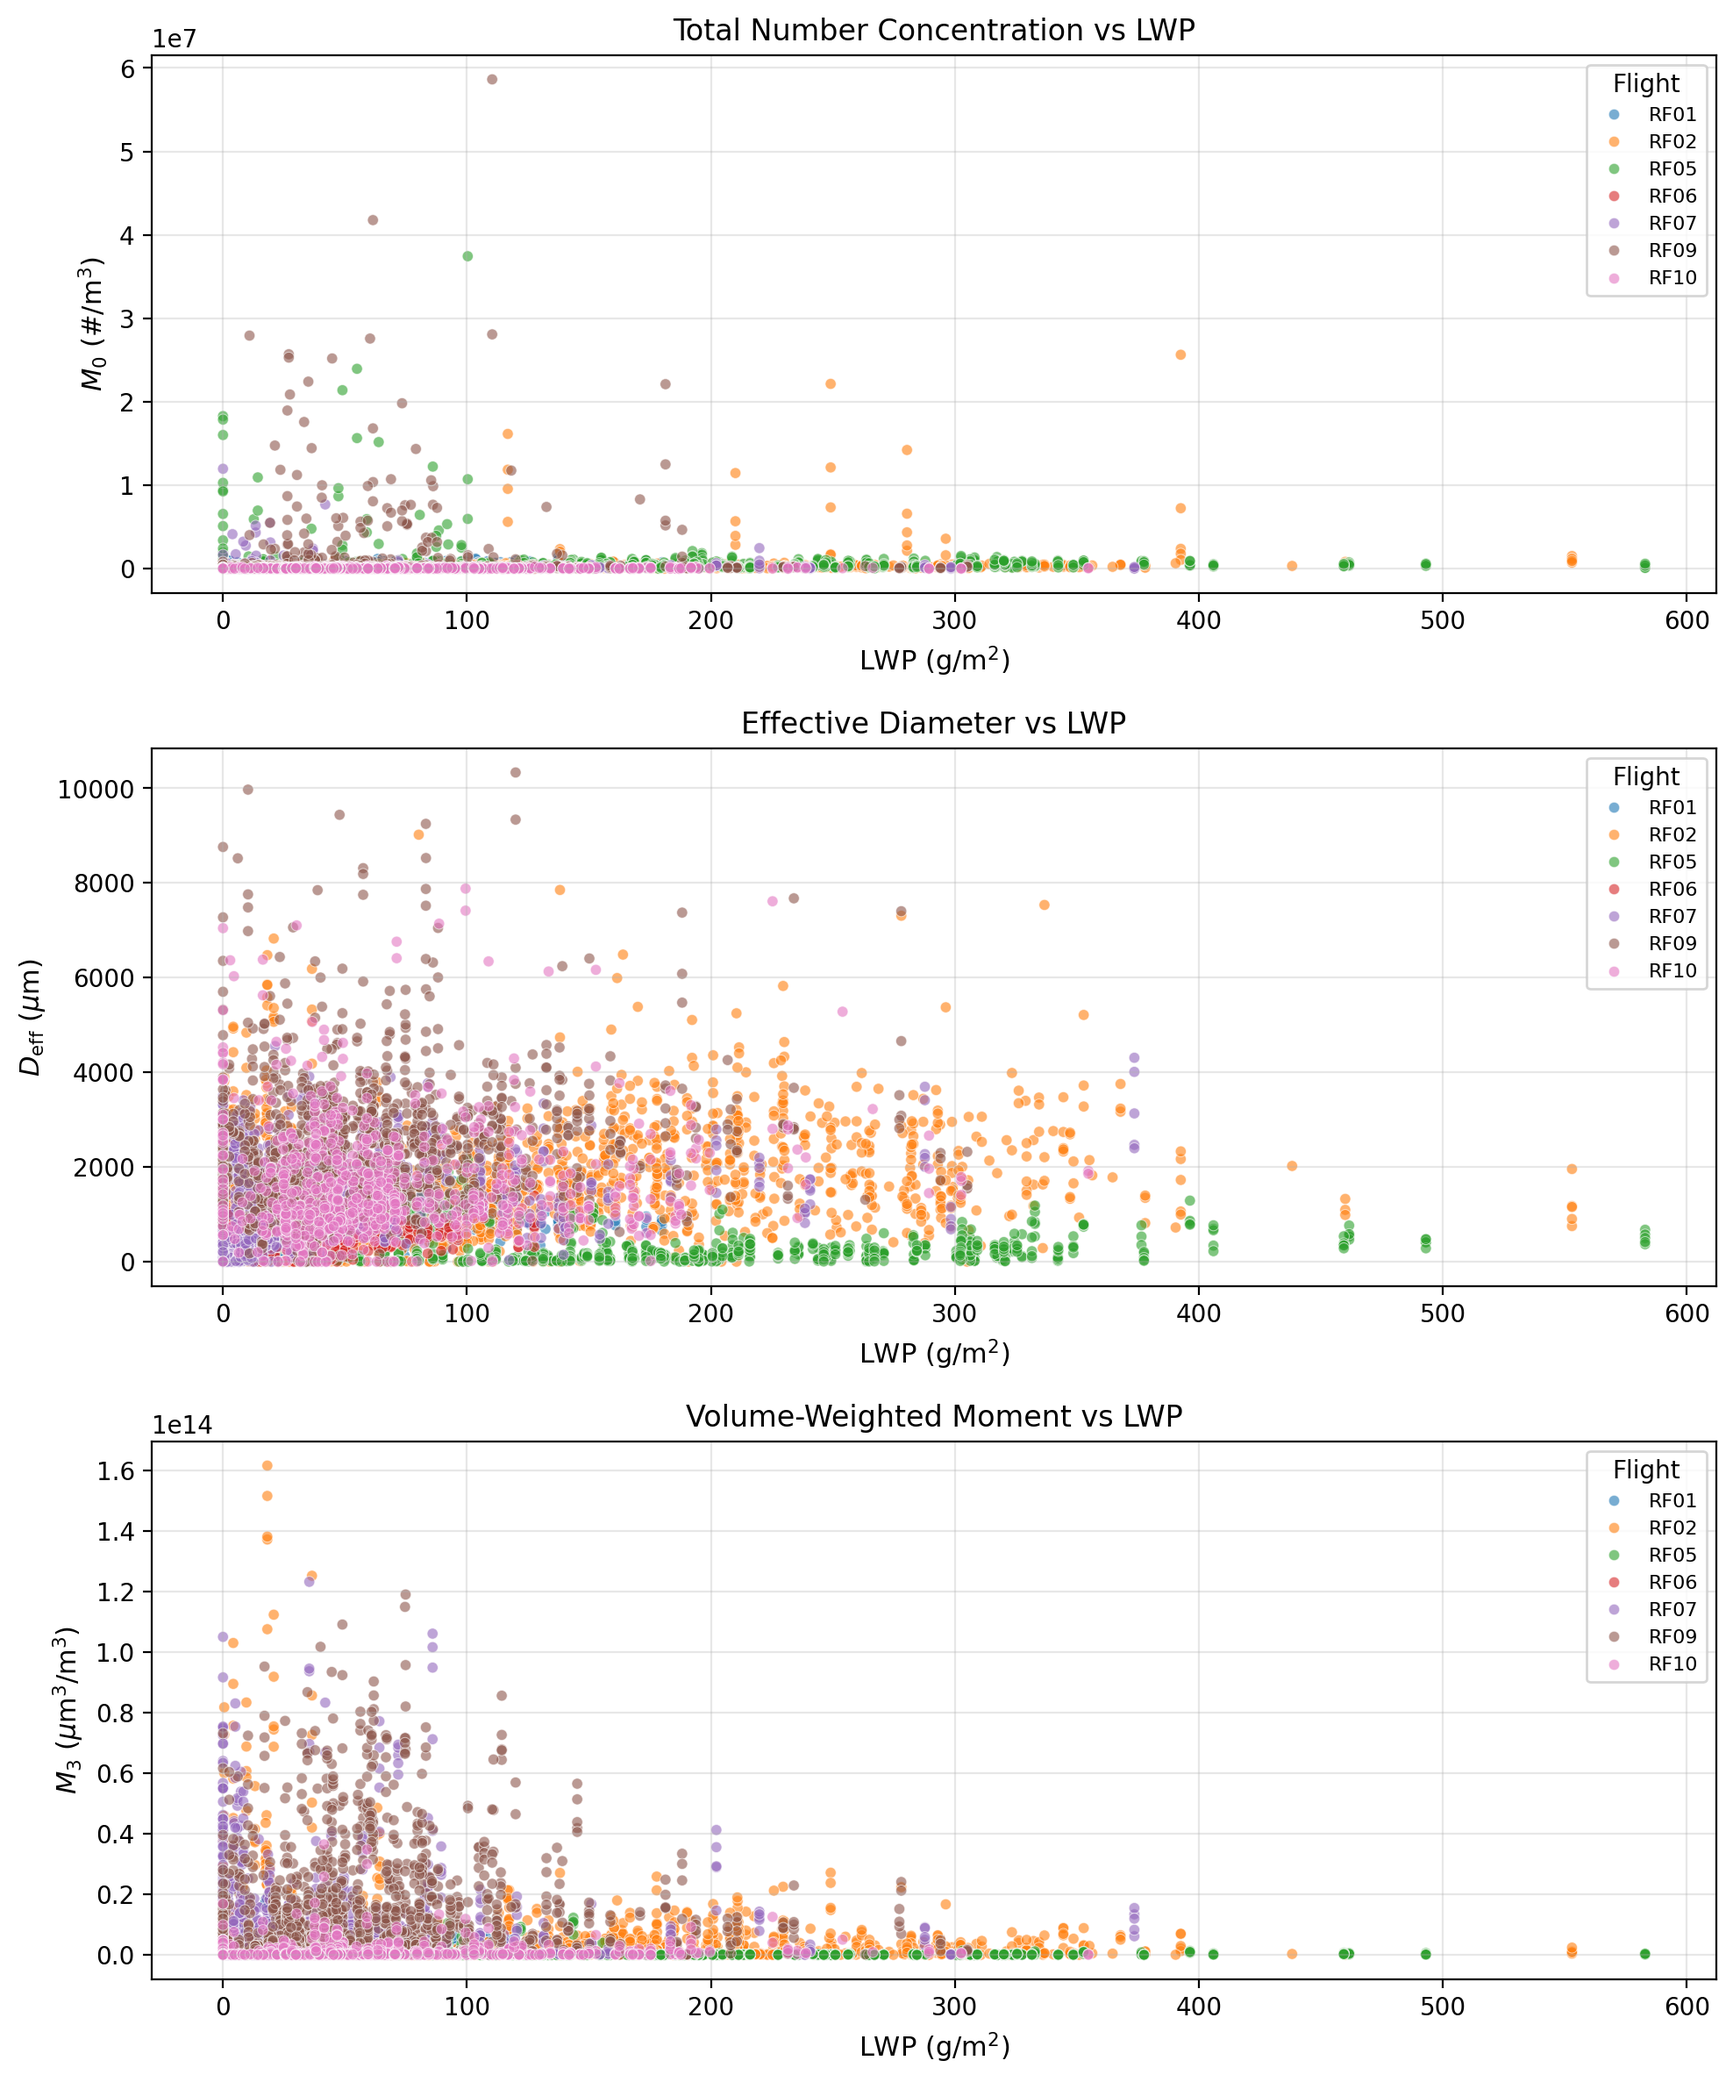
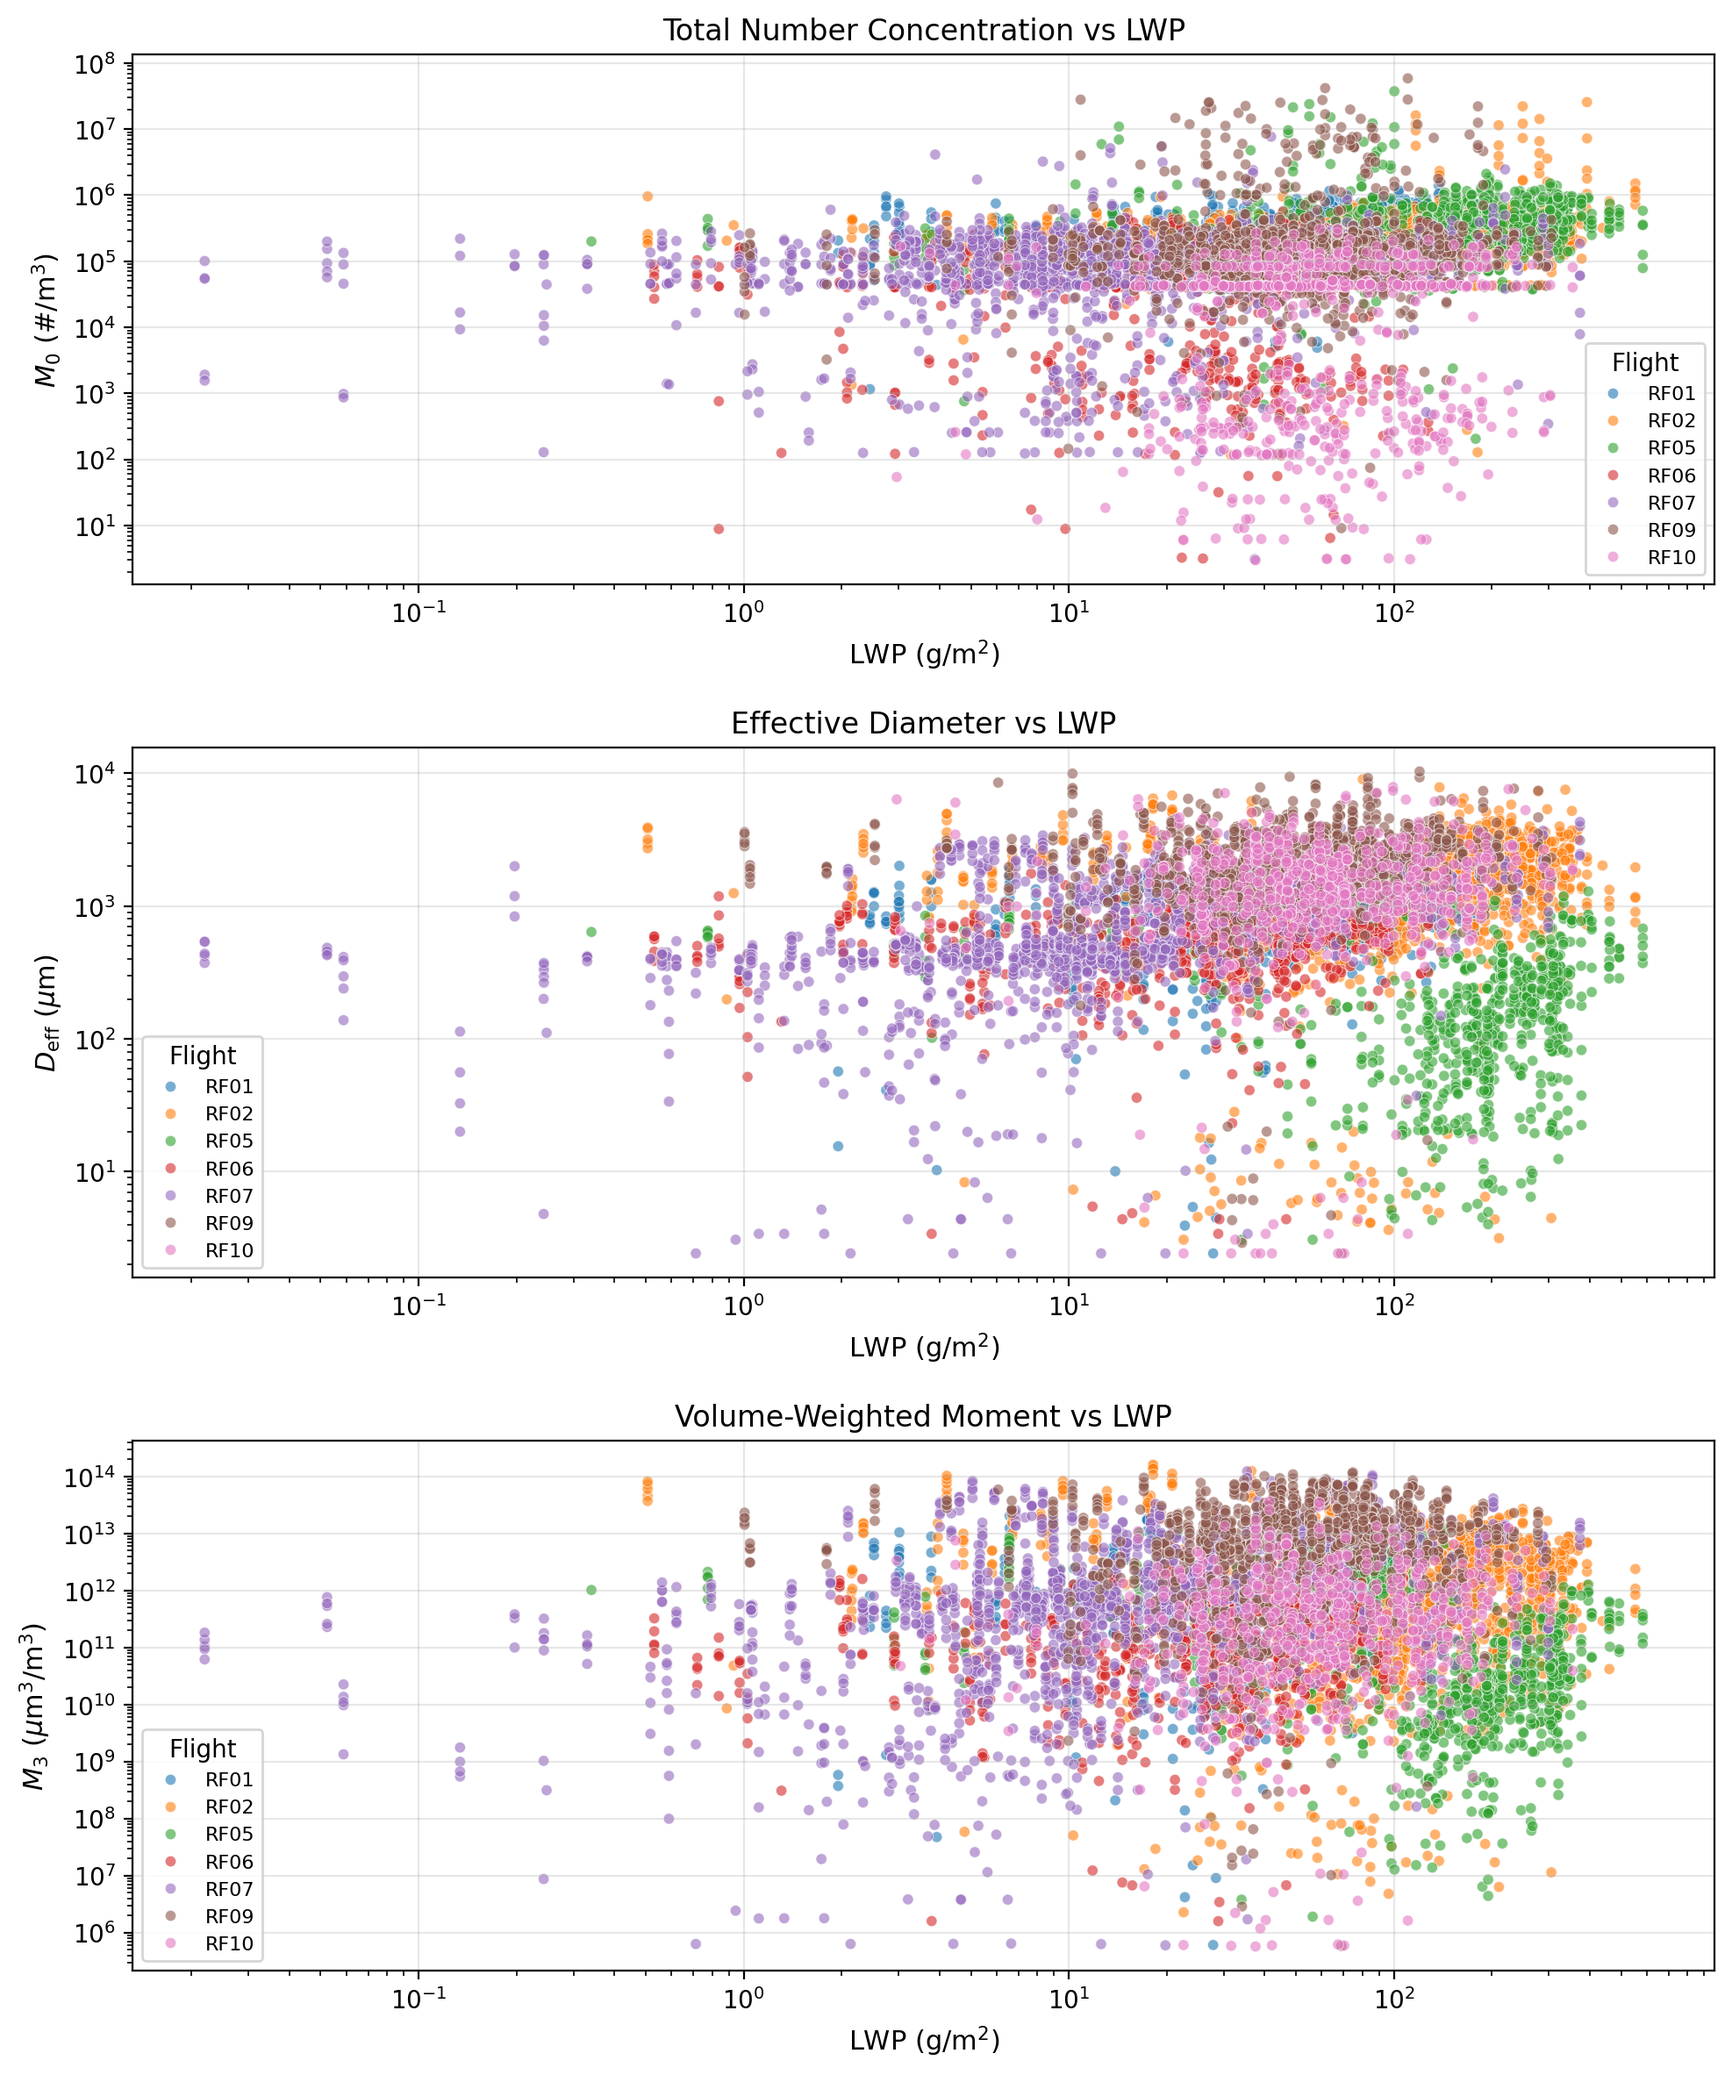
snow flux feedback

diff --git a/src/microphysics/plotting.py b/src/microphysics/plotting.py
@@ -161,9 +161,13 @@ def plot_binned_size_distributions(
             conc_array, bin_centers, bin_widths, method="mean"
         )
 
+        # normalize by dividing dN/dD by total N
+        total_N = np.nansum(sd.dNdD * sd.bin_widths_um)
+        dNdD_norm = sd.dNdD / total_N if total_N > 0 else sd.dNdD
+
         ax.plot(
             sd.bin_centers_um,
-            sd.dNdD,
+            dNdD_norm,
             linewidth=2,
             color=color,
             label=f"{bin_label} g/m$^2$",
@@ -175,7 +179,7 @@ def plot_binned_size_distributions(
         ax.set_yscale("log")
 
     ax.set_xlabel(r"Diameter ($\mu$m)", fontsize=12)
-    ax.set_ylabel(r"$\partial N/\partial D$ (#/m$^4$)", fontsize=12)
+    ax.set_ylabel(r"Normalized $\partial N/\partial D$ ($\mu$m$^{-1}$)", fontsize=12)
     ax.set_title(f"Size Distributions Stratified by {variable}", fontsize=14)
     ax.legend(title=f"{variable} bins", fontsize=9)
     ax.grid(True, alpha=0.3)
@@ -256,16 +260,6 @@ def plot_snow_rate_normalized_timeseries(
     if df_flight.is_empty():
         return output_path
 
-    # compute normalized rates via vectorized Polars expressions
-    df_flight = df_flight.with_columns(
-        pl.when(pl.col("LWP") > 0)
-        .then(pl.col("S") / pl.col("LWP"))
-        .alias("S_over_LWP"),
-        pl.when(pl.col("WVP") > 0)
-        .then(pl.col("S") / pl.col("WVP"))
-        .alias("S_over_WVP"),
-    )
-
     # partition once into per-segment dicts; sort time within each segment
     partitions = df_flight.sort("time").partition_by("segment_id", as_dict=True)
     seg_data = {}
@@ -313,9 +307,7 @@ def plot_snow_rate_normalized_timeseries(
     if ylim is not None:
         axes[0].set_ylim(ylim)
 
-    axes[0].set_ylabel(
-        r"Snow rate / water path (kg m$^{-2}$ s$^{-1}$ / g m$^{-2}$)", fontsize=10
-    )
+    axes[0].set_ylabel(r"Snow rate / water path (hr$^{-1}$)", fontsize=10)
     fig.suptitle(f"{flight}: Snow rate normalized by LWP and WVP", fontsize=13)
     plt.tight_layout()
 
@@ -370,50 +362,30 @@ def plot_integrated_properties(
     fig, axes = plt.subplots(3, 1, figsize=(10, 12))
     var_label = r"WVP (g/m$^2$)" if variable == "WVP" else r"LWP (g/m$^2$)"
 
-    sns.scatterplot(
-        data=df_plot,
-        x=variable,
-        y="M0",
-        hue="flight",
-        alpha=0.6,
-        s=20,
-        ax=axes[0],
-    )
-    axes[0].set_xlabel(var_label, fontsize=11)
-    axes[0].set_ylabel(r"$M_0$ (#/m$^3$)", fontsize=11)
-    axes[0].set_title(f"Total Number Concentration vs {variable}", fontsize=12)
-    axes[0].grid(True, alpha=0.3)
-    axes[0].legend(title="Flight", fontsize=8)
-
-    sns.scatterplot(
-        data=df_plot,
-        x=variable,
-        y="D_eff",
-        hue="flight",
-        alpha=0.6,
-        s=20,
-        ax=axes[1],
-    )
-    axes[1].set_xlabel(var_label, fontsize=11)
-    axes[1].set_ylabel(r"$D_{\mathrm{eff}}$ ($\mu$m)", fontsize=11)
-    axes[1].set_title(f"Effective Diameter vs {variable}", fontsize=12)
-    axes[1].grid(True, alpha=0.3)
-    axes[1].legend(title="Flight", fontsize=8)
-
-    sns.scatterplot(
-        data=df_plot,
-        x=variable,
-        y="M3",
-        hue="flight",
-        alpha=0.6,
-        s=20,
-        ax=axes[2],
-    )
-    axes[2].set_xlabel(var_label, fontsize=11)
-    axes[2].set_ylabel(r"$M_3$ ($\mu$m$^3$/m$^3$)", fontsize=11)
-    axes[2].set_title(f"Volume-Weighted Moment vs {variable}", fontsize=12)
-    axes[2].grid(True, alpha=0.3)
-    axes[2].legend(title="Flight", fontsize=8)
+    for ax_i, (ycol, ylabel, title_prefix) in zip(
+        axes,
+        [
+            ("M0", r"$M_0$ (#/m$^3$)", "Total Number Concentration"),
+            ("D_eff", r"$D_{\mathrm{eff}}$ ($\mu$m)", "Effective Diameter"),
+            ("M3", r"$M_3$ ($\mu$m$^3$/m$^3$)", "Volume-Weighted Moment"),
+        ],
+    ):
+        sns.scatterplot(
+            data=df_plot,
+            x=variable,
+            y=ycol,
+            hue="flight",
+            alpha=0.6,
+            s=20,
+            ax=ax_i,
+        )
+        ax_i.set_xlabel(var_label, fontsize=11)
+        ax_i.set_ylabel(ylabel, fontsize=11)
+        ax_i.set_title(f"{title_prefix} vs {variable}", fontsize=12)
+        ax_i.set_xscale("log")
+        ax_i.set_yscale("log")
+        ax_i.grid(True, alpha=0.3)
+        ax_i.legend(title="Flight", fontsize=8)
 
     plt.tight_layout()
     fig.savefig(output_path, dpi=200, bbox_inches="tight")

diff --git a/src/microphysics/snow_mass_flux.py b/src/microphysics/snow_mass_flux.py
@@ -93,6 +93,20 @@ def build_flux_dataset() -> pl.DataFrame:
 
     df = df.filter(pl.col("MCAO").is_not_null() & ~pl.col("MCAO").is_nan())
 
+    # normalized snow rates (hr^-1)
+    # S is kg/m^2/s, LWP and WVP are g/m^2; convert to kg/m^2/1000
+    # then S/WP = 1/s; multiply by 3600 to get 1/hr
+    # ==> S / WP * 1000 * 3600
+    s_wp_to_per_hr = 3600 * 1000
+    df = df.with_columns(
+        pl.when(pl.col("LWP") > 0)
+        .then(pl.col("S") / pl.col("LWP") * s_wp_to_per_hr)
+        .alias("S_over_LWP"),
+        pl.when(pl.col("WVP") > 0)
+        .then(pl.col("S") / pl.col("WVP") * s_wp_to_per_hr)
+        .alias("S_over_WVP"),
+    )
+
     print(
         f"\nMerged dataset: {df.height} timesteps with valid S and MCAO"
         f"\n\tS range: [{df['S'].min():.3e}, {df['S'].max():.3e}] kg/m^2/s"
@@ -189,6 +203,54 @@ def plot_binned_flux(df: pl.DataFrame) -> None:
     print(f"Saved: {out_path}")
 
 
+def plot_normalized_flux_vs_mcao(df: pl.DataFrame) -> None:
+    """Scatterplot of MCAO vs S/LWP and S/WVP."""
+    df_valid = df.filter(
+        pl.col("S_over_LWP").is_not_null() & pl.col("S_over_WVP").is_not_null()
+    )
+
+    df_pd = df_valid.to_pandas()
+
+    fig, (ax1, ax2) = plt.subplots(2, 1, figsize=(10, 10), sharex=True)
+
+    sns.scatterplot(
+        data=df_pd,
+        x="MCAO",
+        y="S_over_LWP",
+        hue="flight",
+        alpha=0.5,
+        s=20,
+        ax=ax1,
+    )
+    ax1.set_yscale("log")
+    ax1.set_ylabel(r"$S$/LWP (hr$^{-1}$)", fontsize=12)
+    ax1.set_title(r"$S$/LWP vs MCAO (low-level legs)", fontsize=13)
+    ax1.legend(title="Flight", fontsize=8)
+    ax1.grid(True, alpha=0.3)
+
+    sns.scatterplot(
+        data=df_pd,
+        x="MCAO",
+        y="S_over_WVP",
+        hue="flight",
+        alpha=0.5,
+        s=20,
+        ax=ax2,
+    )
+    ax2.set_yscale("log")
+    ax2.set_xlabel("MCAO $(K)$", fontsize=12)
+    ax2.set_ylabel(r"$S$/WVP (hr$^{-1}$)", fontsize=12)
+    ax2.set_title(r"$S$/WVP vs MCAO (low-level legs)", fontsize=13)
+    ax2.legend(title="Flight", fontsize=8)
+    ax2.grid(True, alpha=0.3)
+
+    plt.tight_layout()
+    out_path = os.path.join(PLOTS_DIR, "normalized_flux_vs_mcao.png")
+    fig.savefig(out_path, dpi=200, bbox_inches="tight")
+    plt.close(fig)
+    print(f"Saved: {out_path}")
+
+
 def main():
     os.makedirs(PLOTS_DIR, exist_ok=True)
 
@@ -197,10 +259,11 @@ def main():
     print("Generating plots...")
     plot_flux_vs_mcao(df)
     plot_binned_flux(df)
+    plot_normalized_flux_vs_mcao(df)
 
     # compute global y-limits for S/LWP and S/WVP across all flights
-    s_over_lwp = (df["S"] / df["LWP"]).filter(df["LWP"] > 0).to_numpy()
-    s_over_wvp = (df["S"] / df["WVP"]).filter(df["WVP"] > 0).to_numpy()
+    s_over_lwp = df["S_over_LWP"].drop_nulls().to_numpy()
+    s_over_wvp = df["S_over_WVP"].drop_nulls().to_numpy()
     combined = np.concatenate([s_over_lwp, s_over_wvp])
     combined = combined[combined > 0]
     ylim = (float(combined.min()), float(combined.max()))

diff --git a/output/microphysics_beta/plots/snow_flux/snow_flux.md b/output/microphysics_beta/plots/snow_flux/snow_flux.md
@@ -6,6 +6,10 @@
 |---------|--------|
 | ![](snow_flux_vs_mcao.png) | ![](binned_snow_flux_vs_mcao.png) |
 
+## Normalized Snow Rate vs MCAO
+
+![](normalized_flux_vs_mcao.png)
+
 ## Snow Rate Normalized Timeseries by Flight
 
 | Flight | Timeseries |
